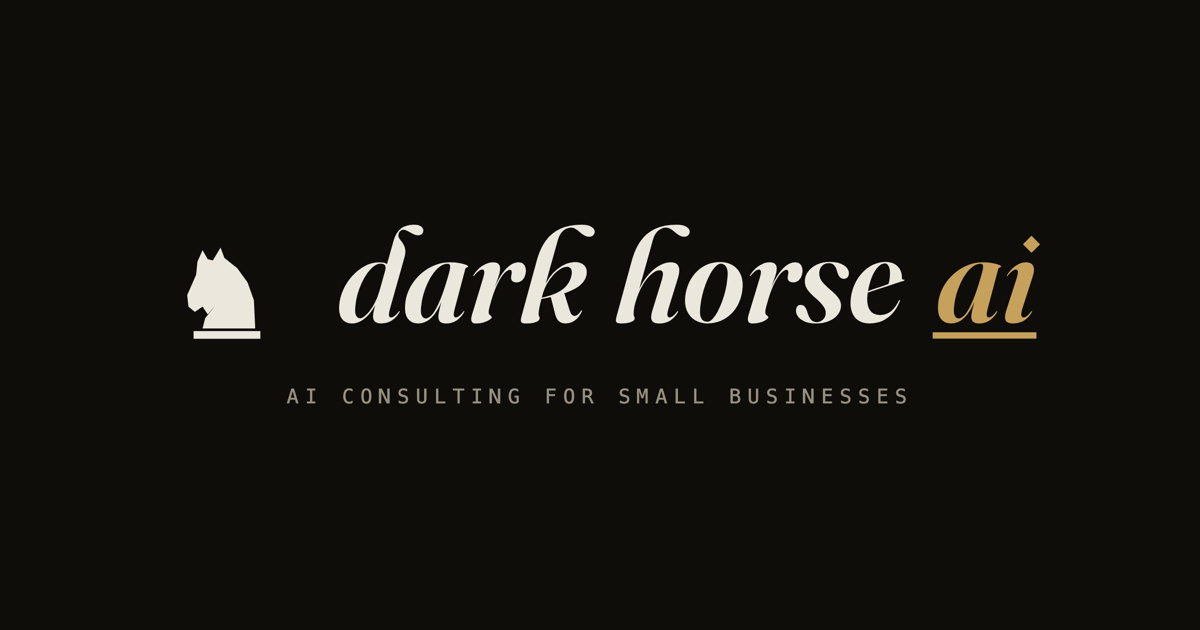
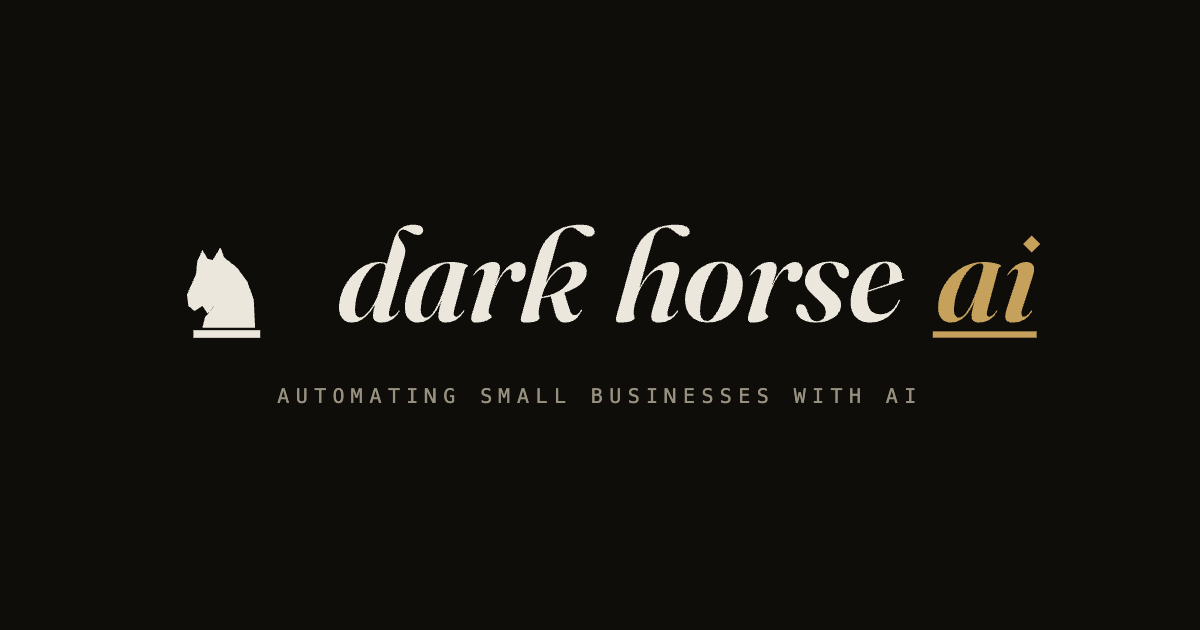
Change tagline to 'automating small businesses with AI'
Update the OG card tagline + regenerate og-image.png, and realign the
homepage title / og:title / twitter:title / schema name to match. Drops the
'AI consulting' head-term framing (unwinnable SERP) for message consistency
with the new tagline. serviceType list + long-tail SEO page left intact.

diff --git a/index.html b/index.html
@@ -4,20 +4,20 @@
 <head>
 <meta charset="utf-8" />
 <meta name="viewport" content="width=device-width, initial-scale=1" />
-<title>AI Consulting &amp; Automation for Small Businesses | Dark Horse AI</title>
+<title>Automating Small Businesses with AI | Dark Horse AI</title>
 <meta name="description" content="Get back 10+ hours/week by automating the repetitive tasks you hate doing. We'll show you exactly how and install it completely for you." />
 <link rel="icon" type="image/svg+xml" href="favicon.svg" />
 <link rel="icon" type="image/png" sizes="256x256" href="favicon-256.png" />
 <link rel="apple-touch-icon" href="apple-touch-icon.png" />
 <meta property="og:type" content="website" />
-<meta property="og:title" content="AI Consulting &amp; Automation for Small Businesses | Dark Horse AI" />
+<meta property="og:title" content="Automating Small Businesses with AI | Dark Horse AI" />
 <meta property="og:description" content="Get back 10+ hours/week by automating the repetitive tasks you hate doing. We'll show you exactly how and install it completely for you." />
 <meta property="og:url" content="https://www.thedarkhorseai.com/" />
 <meta property="og:image" content="https://www.thedarkhorseai.com/og-image.png" />
 <meta property="og:image:width" content="1200" />
 <meta property="og:image:height" content="630" />
 <meta name="twitter:card" content="summary_large_image" />
-<meta name="twitter:title" content="AI Consulting &amp; Automation for Small Businesses | Dark Horse AI" />
+<meta name="twitter:title" content="Automating Small Businesses with AI | Dark Horse AI" />
 <meta name="twitter:description" content="Get back 10+ hours/week by automating the repetitive tasks you hate doing. We'll show you exactly how and install it completely for you." />
 <meta name="twitter:image" content="https://www.thedarkhorseai.com/og-image.png" />
 <link rel="canonical" href="https://www.thedarkhorseai.com/" />
@@ -130,7 +130,7 @@
       "@type": "WebPage",
       "@id": "https://www.thedarkhorseai.com/#webpage",
       "url": "https://www.thedarkhorseai.com/",
-      "name": "AI Consulting & Automation for Small Businesses | Dark Horse AI",
+      "name": "Automating Small Businesses with AI | Dark Horse AI",
       "isPartOf": { "@id": "https://www.thedarkhorseai.com/#website" },
       "about": { "@id": "https://www.thedarkhorseai.com/#organization" },
       "description": "Get back 10+ hours/week by automating the repetitive tasks you hate doing. We'll show you exactly how and install it completely for you.",

diff --git a/public/brand/render-og.html b/public/brand/render-og.html
@@ -7,5 +7,5 @@ body{background:#0F0D0A;display:flex;flex-direction:column;align-items:center;ju
 .tag{font-family:ui-monospace,'SF Mono',Menlo,monospace;font-weight:500;font-size:20px;letter-spacing:.32em;text-transform:uppercase;color:#97907F}
 </style></head><body>
 <img class="lockup" src="lockup-dark.svg" alt="">
-<div class="tag">AI consulting for small businesses</div>
+<div class="tag">automating small businesses with AI</div>
 </body></html>